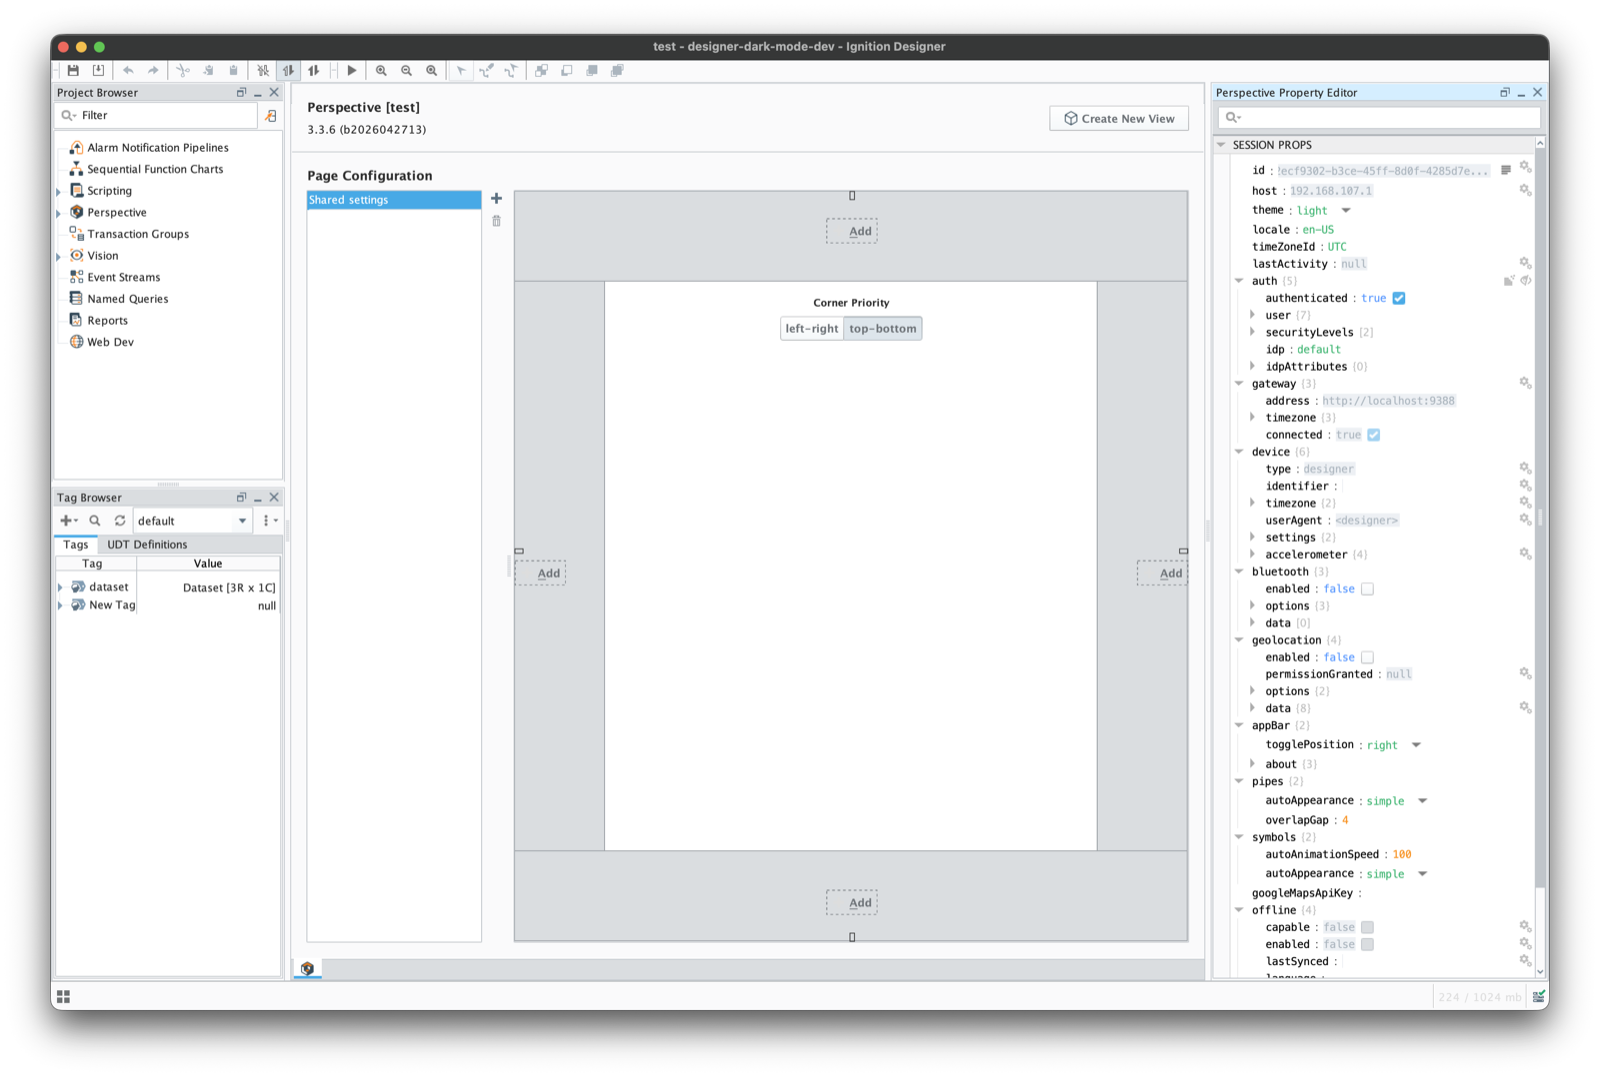
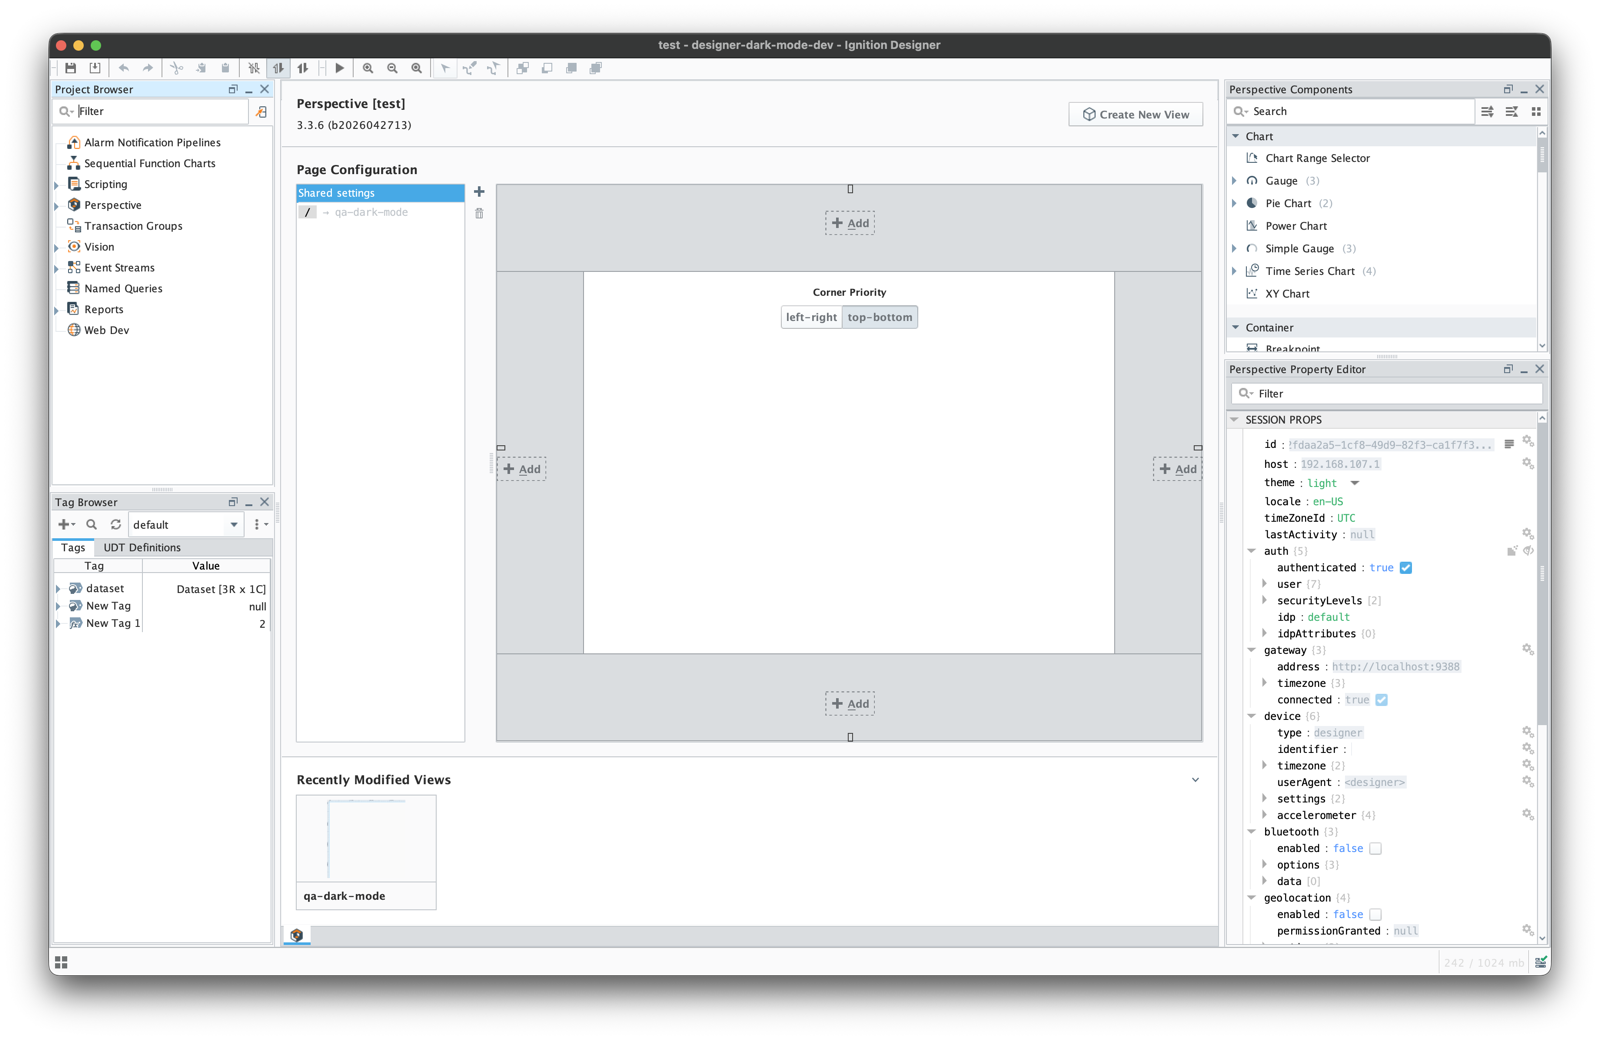
docs: retake the README screenshots after the property-name fix
The previous dark image showed the very defect the forum reported: every
Session Props name black on the dark panel, about 1.9:1. The "after" half of
the before/after pair was itself a bug report.

Same frame, same recipe as docs/images/README.md — light from a fresh launch,
dark after Tools -> Dark Mode in the same session, window capture with the
drop shadow, downscaled to 1600px — against main at #85 on 8.3.6. The dark
name column now measures about 7:1 from the pixels. The notes gain a third
check: measure that column rather than eyeballing it.

diff --git a/docs/images/README.md b/docs/images/README.md
@@ -13,8 +13,9 @@ Filenames are stable on purpose: replacing them in place keeps every existing
 reference — README, issues, release notes — pointing at the current image. Do
 not add dates or version numbers.
 
-The current pair was captured on 2026-08-31 against 0.2.0. Two things to check
-in a replacement, both of which have gone wrong before:
+The current pair was captured on 2026-09-15 against `main` at #85 (the
+property-name fix), on 8.3.6. Three things to check in a replacement, all of
+which have gone wrong before:
 
 - **No trial badge in the status bar.** A later capture of the same frame was
   rejected for showing a red "Trial Expired" — the Reporting module's trial,
@@ -22,6 +23,11 @@ in a replacement, both of which have gone wrong before:
   a README it reads as though this module is trial-limited.
 - **Tags in the Tag Browser.** An empty one wastes the panel that shows off the
   tree theming.
+- **Measure the property names, don't eyeball them.** The 0.2.0 pair shipped
+  with every name in the Session Props editor pure black on the dark panel
+  (about 1.9:1) and nobody noticed until a forum reader did. Crop the name
+  column of the dark image and compute the contrast from the pixels; the
+  current pair reads about 7:1 there after the downscale.
 
 ## Reproducing them
 

diff --git a/CHANGELOG.md b/CHANGELOG.md
@@ -46,6 +46,13 @@ version parser is numeric-only and rejects a prerelease suffix at install time.
 
 ### Fixed
 
+- The README's screenshot pair is retaken from `main` after the property-name
+  fix below (docs only). The previous dark image showed the very defect the
+  forum reported — every Session Props name black on the dark panel — so the
+  "after" half of the before/after pair was itself a bug report. Same frame,
+  same recipe (`docs/images/README.md`), 8.3.6; the dark name column now
+  measures about 7:1 from the pixels where the old one measured 1.9:1.
+
 - **Property names in the Perspective property editor are readable.** Raised
   on the forum against the announcement's own screenshot: every key in the
   Session Props editor — `host`, `locale`, `authenticated` — was pure black on
